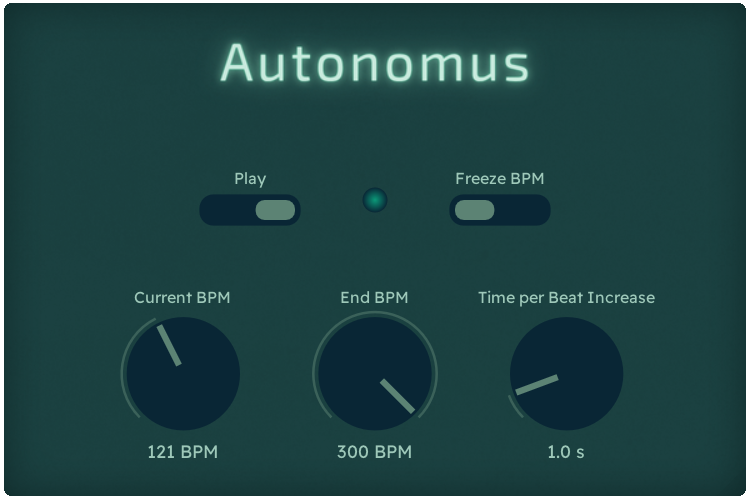
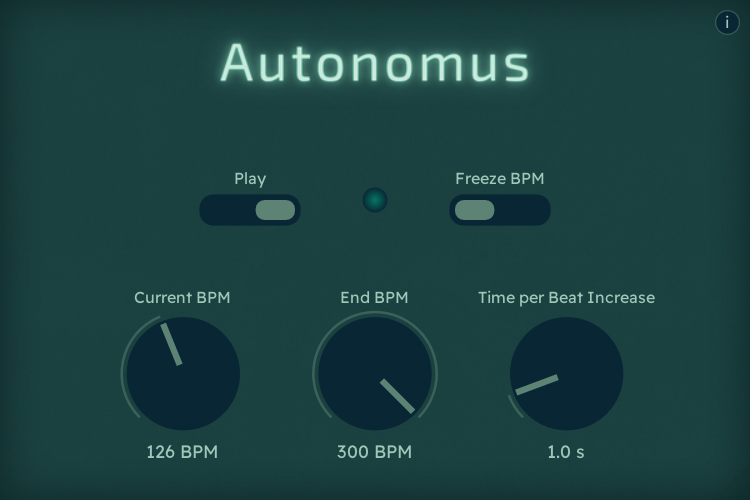
updated readme

diff --git a/README.md b/README.md
@@ -1,5 +1,5 @@
 <p align="center">
-    <img src="Autonomus/resources/AutonomusScreenshot.png" width="70%" alt="Autonomus Screenshot">
+    <img src="Autonomus/resources/AutonomusScreenshot.png" width="70%" style="border-radius: 5px" alt="Autonomus Screenshot">
 </p>
 
 **Autonomus** is an automatic metronome that increases or decreases beats per minute automatically based on the selected start BPM, end BPM and how fast the tempo changes.
